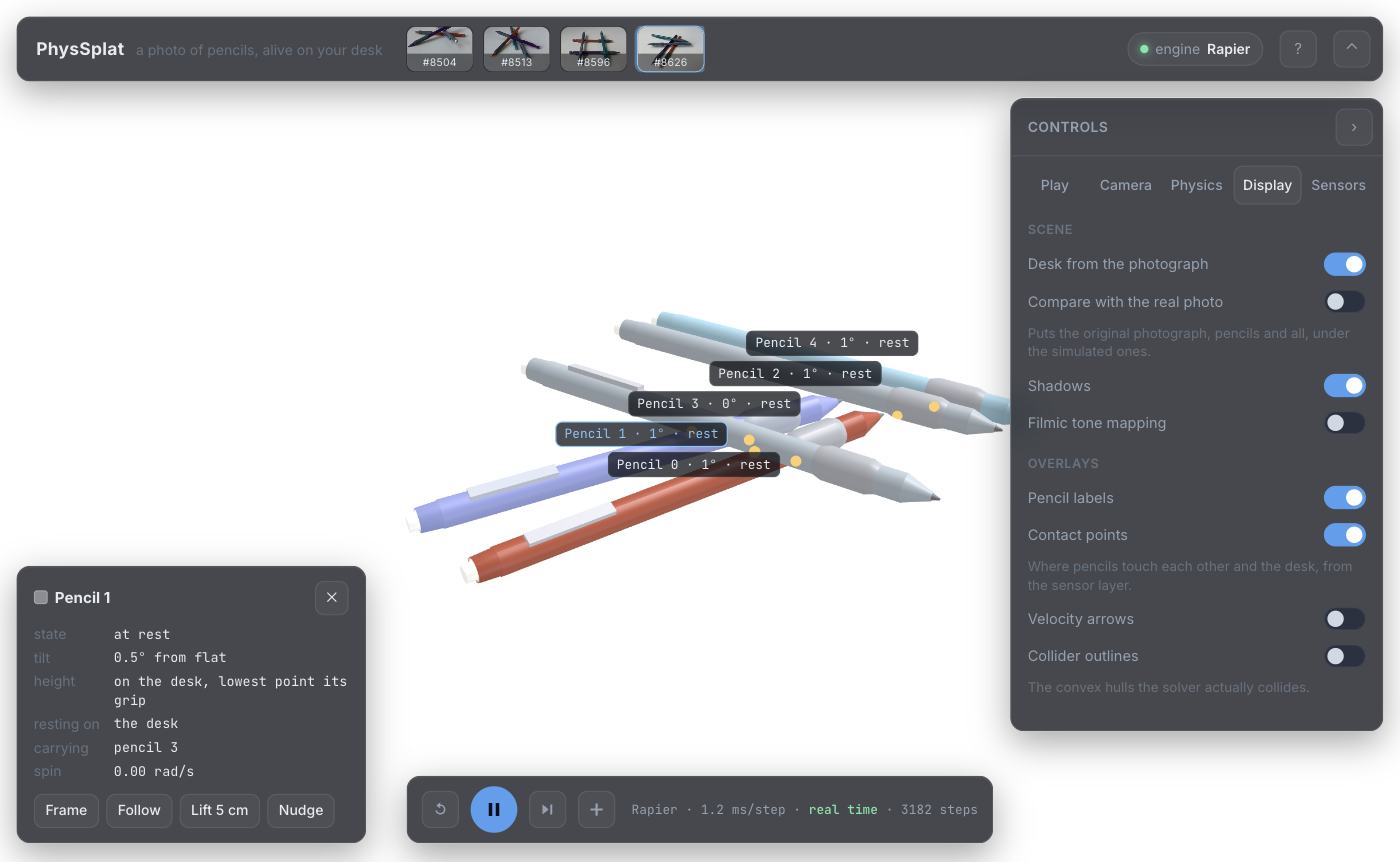
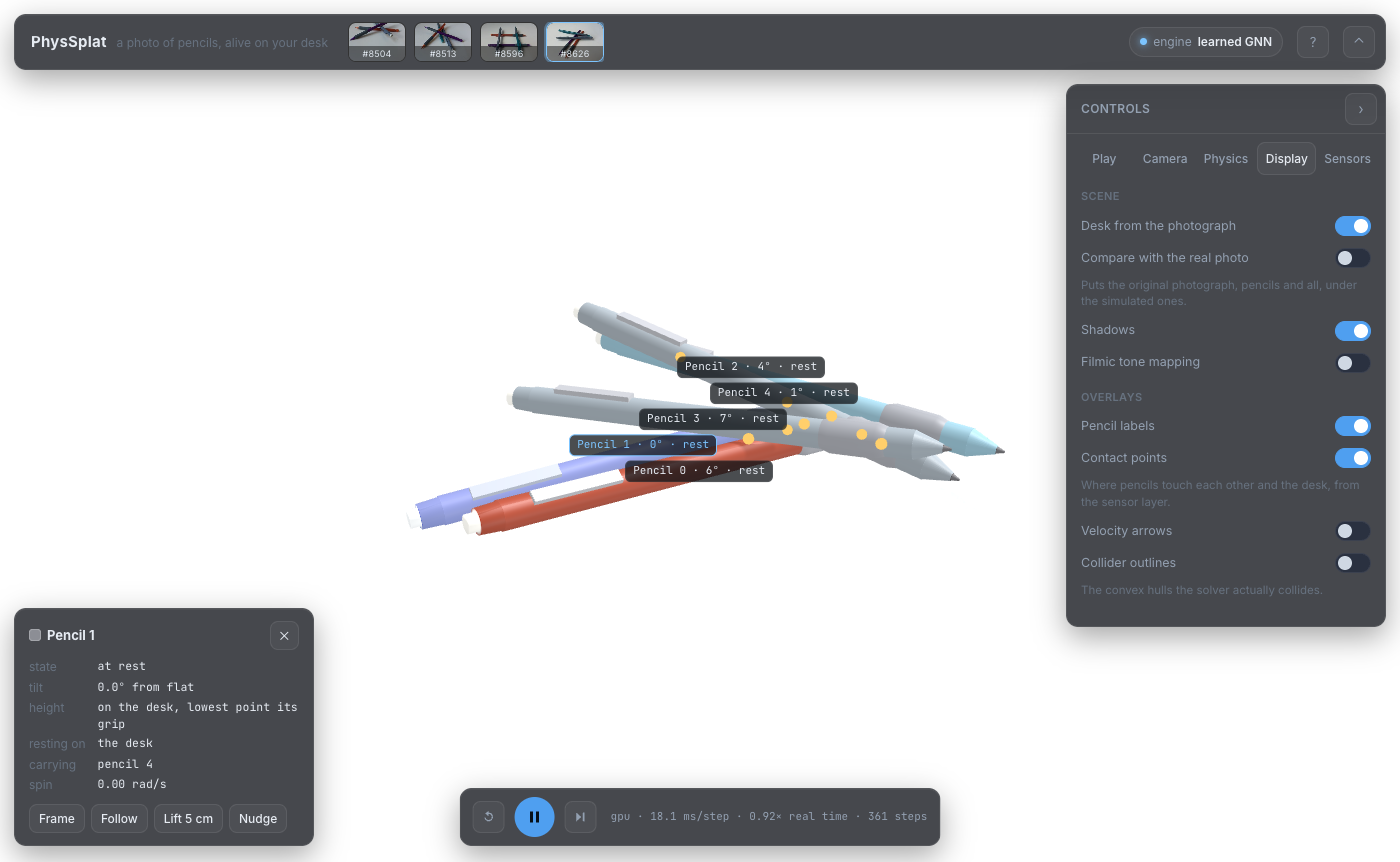
The screenshot shows the learned engine; no dead drop buttons under it
The learned engine's graph is fixed at load, so it cannot add a pencil.
With it now the default, the Drop a pencil button and the transport's
plus were controls that only answered with a toast, and N reported
"pencil null dropped". They are left out under the GNN, N says what
engine adding pencils needs, and the shortcuts sheet notes it.

docs/img/ui.png is retaken on the GNN: IMG_8626, labels and contact
points on, pencil 1 selected.

Claude-Session: https://claude.ai/code/session_01PpGhhrrqqbobNFn55iAAks

Changed region(s): [[0.0, 0.0, 1.0, 0.8747], [0.0, 0.6334, 0.7371, 1.0]]

diff --git a/web/public/js/ui.js b/web/public/js/ui.js
@@ -120,6 +120,14 @@ export function initUI(app) {
   };
   let activeTab = "Play";
 
+  // Adding a pencil is Rapier only: the learned engine's graph is fixed at
+  // load, so under it the controls are left out rather than shown dead.
+  const canSpawn = app.engine === "rapier";
+  const drop = () => {
+    if (!canSpawn) { toast("adding pencils needs the Rapier engine (engine badge, top right)"); return; }
+    const i = app.spawn(); if (i != null) toast(`pencil ${i} dropped`);
+  };
+
   // ---- Play
   {
     const p = addTab("Play");
@@ -131,7 +139,7 @@ export function initUI(app) {
         el("div", { class: "hint" }, "Slow motion is real physics at a smaller step rate, not a replay."),
         el("div", { class: "btns" },
           btn("Reset scene", () => app.reset()),
-          btn("Drop a pencil", () => { const i = app.spawn(); toast(`pencil ${i} dropped`); }, "primary"),
+          canSpawn ? btn("Drop a pencil", drop, "primary") : null,
           btn("Lift one", () => { const b = app.selected ?? 0; app.probe("lift", b, { height: 0.05 }); toast(`lifting pencil ${b}`); }),
           btn("Pull bottom", () => { app.probe("pullBottom"); toast("pulling the load-bearing pencil"); }))),
       group("Interaction",
@@ -255,9 +263,9 @@ export function initUI(app) {
     const playBtn = el("button", { class: "big", title: "pause / play (Space)", html: ICON.pause, onclick: () => (app.paused ? app.play() : app.pause()) });
     const stepBtn = el("button", { class: "iconbtn", title: "step one frame (.)", html: ICON.step, onclick: () => app.step() });
     const resetBtn = el("button", { class: "iconbtn", title: "reset scene", html: ICON.reset, onclick: () => app.reset() });
-    const spawnBtn = el("button", { class: "iconbtn", title: "drop a pencil (N)", html: ICON.plus, onclick: () => { const i = app.spawn(); toast(`pencil ${i} dropped`); } });
+    const spawnBtn = el("button", { class: "iconbtn", title: "drop a pencil (N)", html: ICON.plus, onclick: drop });
     const stats = el("span", { id: "stats" }, "loading…");
-    bar.append(resetBtn, playBtn, stepBtn, spawnBtn, stats);
+    bar.append(resetBtn, playBtn, stepBtn, ...(canSpawn ? [spawnBtn] : []), stats);
     app.onPause((paused) => { playBtn.innerHTML = paused ? ICON.play : ICON.pause; });
     setInterval(() => {
       const s = app.stats;
@@ -338,7 +346,7 @@ export function initUI(app) {
     else if (e.key === ".") app.step();
     else if (e.key === "h" || e.key === "H") root.classList.toggle("hidden");
     else if (e.key === "?") $("help").hidden = !$("help").hidden;
-    else if (e.key === "n" || e.key === "N") { const i = app.spawn(); toast(`pencil ${i} dropped`); }
+    else if (e.key === "n" || e.key === "N") drop();
     else if (e.key === "Escape") { $("help").hidden = true; app.select(null); }
   });
 

diff --git a/web/public/index.html b/web/public/index.html
@@ -250,7 +250,7 @@
         <tr><td><kbd>1</kbd> <kbd>2</kbd> <kbd>3</kbd> <kbd>4</kbd> <kbd>5</kbd></td><td>views: home, top, side, low, photo</td></tr>
         <tr><td><kbd>arrows</kbd> / <kbd>WASD</kbd> &nbsp; <kbd>Q</kbd> <kbd>E</kbd></td><td>orbit &nbsp;·&nbsp; zoom</td></tr>
         <tr><td><kbd>F</kbd> &nbsp; <kbd>R</kbd> &nbsp; <kbd>O</kbd></td><td>frame pencil under cursor &nbsp;·&nbsp; home &nbsp;·&nbsp; auto-orbit</td></tr>
-        <tr><td><kbd>N</kbd></td><td>drop a new pencil</td></tr>
+        <tr><td><kbd>N</kbd></td><td>drop a new pencil (Rapier engine)</td></tr>
         <tr><td><kbd>H</kbd> &nbsp; <kbd>D</kbd> &nbsp; <kbd>?</kbd></td><td>hide interface &nbsp;·&nbsp; diagnostics &nbsp;·&nbsp; this sheet</td></tr>
       </table>
       <div style="margin-top:12px;display:flex;justify-content:space-between"><button class="btn" id="introopen">about this project</button><button class="btn" id="helpclose">close</button></div>
@@ -330,6 +330,6 @@
              "three/addons/": "https://cdn.jsdelivr.net/npm/three@0.160.0/examples/jsm/"}}
 </script>
 <!-- the query is a build stamp: a browser holding a cached main.js after a deploy would otherwise keep old physics -->
-<script type="module" src="./js/main.js?b=20260913120000"></script>
+<script type="module" src="./js/main.js?b=20260913130000"></script>
 </body>
 </html>

diff --git a/README.md b/README.md
@@ -153,7 +153,7 @@ them from 5,000 trajectories.
 
 ## Interface
 
-![The PhysSplat interface: a top bar with four scene thumbnails and the engine badge; five simulated pencils on the photographed desk with a label over each one and yellow dots where they touch; a card for the selected pencil reading at rest, 0.5° from flat, on the desk, resting on the desk, carrying pencil 3; the Display tab of the dock with its toggles; the transport bar reading Rapier, 1.2 ms per step, real time.](docs/img/ui.png)
+![The PhysSplat interface: a top bar with four scene thumbnails and the engine badge reading learned GNN; five simulated pencils on the photographed desk with a label over each one and yellow dots where they touch; a card for the selected pencil reading at rest, 0.0° from flat, on the desk, resting on the desk, carrying pencil 4; the Display tab of the dock with its toggles; the transport bar reading gpu, 18.1 ms per step.](docs/img/ui.png)
 
 The top bar selects a scene and switches the engine. The dock provides
 playback controls (**Play**), camera views including the photograph's own
